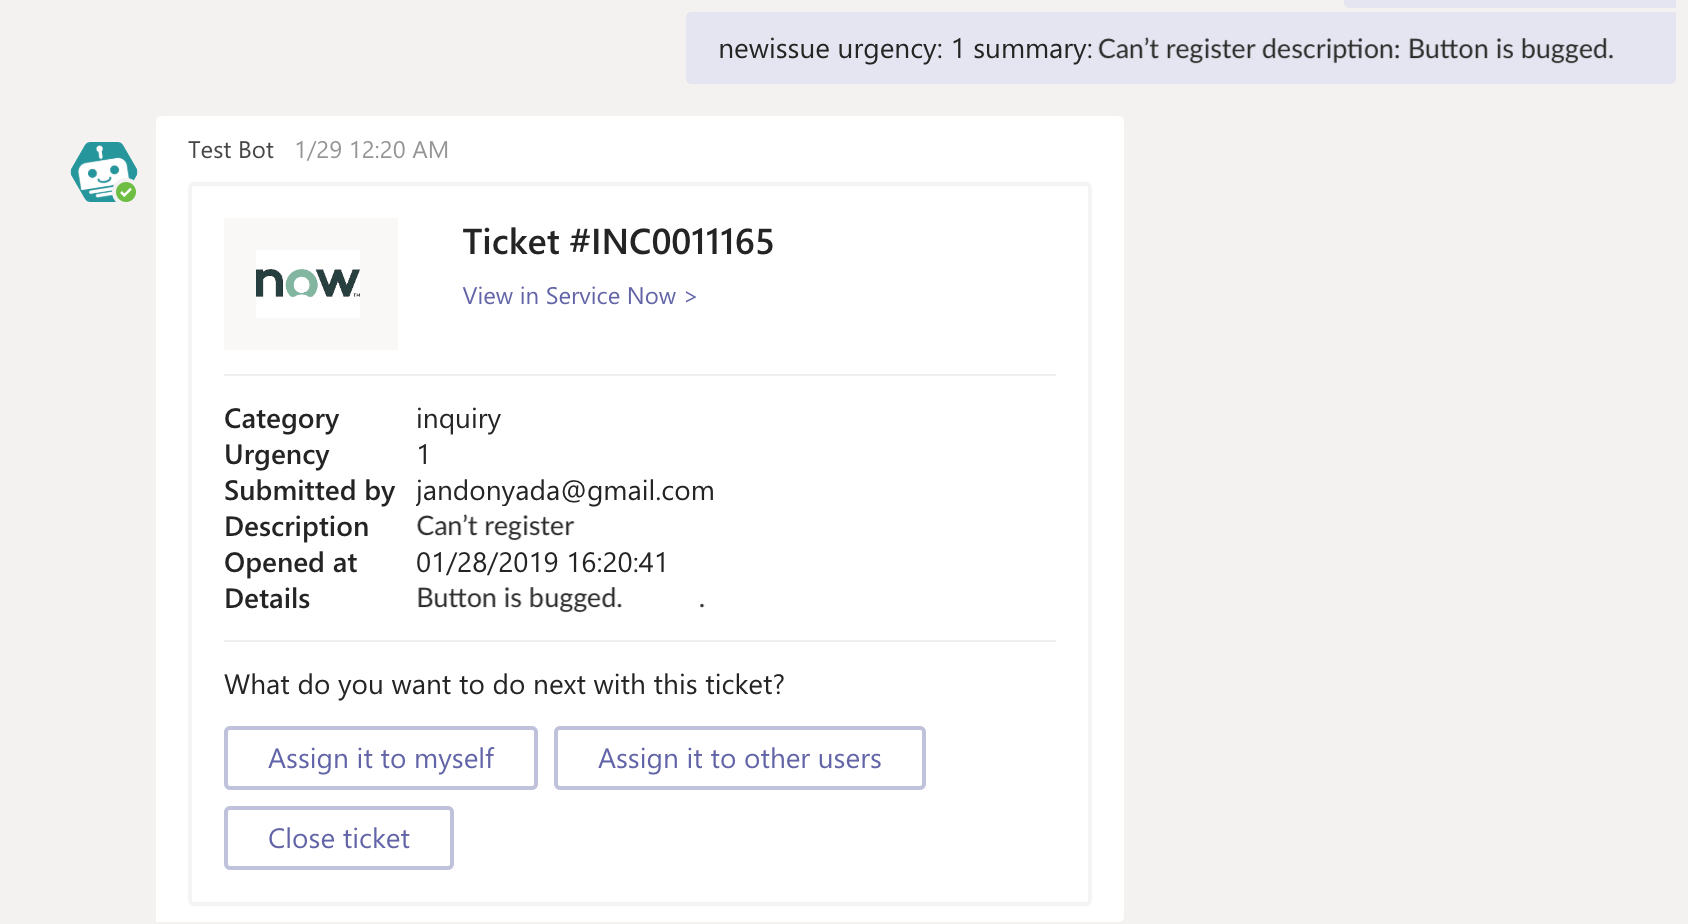
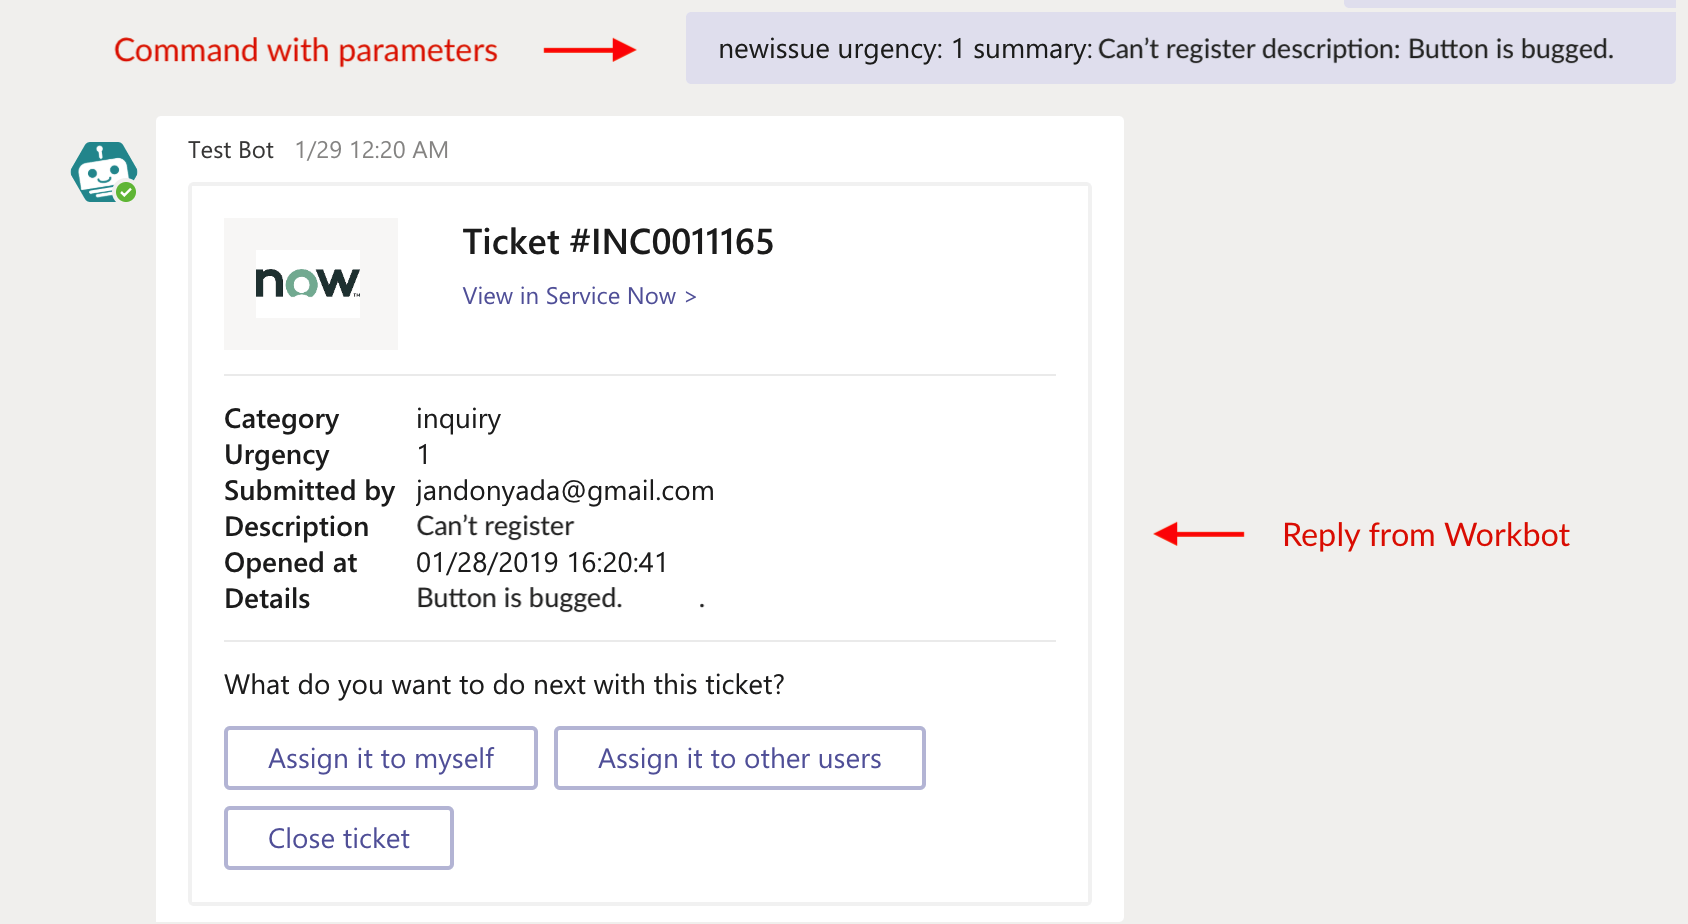
Update

Changed region(s): [[0.0616, 0.0303, 0.3697, 0.0909], [0.7701, 0.5455, 0.9242, 0.6061], [0.6777, 0.5455, 0.7393, 0.6061]]

diff --git a/workbot-for-teams/workbot-triggers.md b/workbot-for-teams/workbot-triggers.md
@@ -1,10 +1,25 @@
 ---
-title: Workbot triggers for Slack
+title: Workbot for Teams triggers
 date: 2017-03-30 05:00:00 Z
 ---
 
-# Workbot triggers for Slack
-Workbot for Slack allows you to send commands to Workbot on Slack. Workbot will handle these commands and interact with your connected apps to do things, such as display details of a customer account, close opportunities, display a list of invoices or tickets, or create/update existing tickets.
+# Workbot for Teams triggers
+## Workbot command trigger
+Workbot commands allow you to perform actions in your apps (e.g. creating new ServiceNow tickets, listing Salesforce opportunities) from within Teams.
+
+![Command example](/assets/images/workbot-for-teams/workbot-command-example.png)
+*Sending a 'newissue' command with additional parameters in Teams, then receiving a reply*
+
+In a recipe, a Workbot command is a trigger you can use to start your workflow.
+![Command recipe](/assets/images/workbot-for-teams/command-recipes.png)
+*A typical Workbot command recipe*
+
+When the command is sent to Workbot in Teams, it will trigger the recipe and execute its actions.
+
+
+### Configuring the command
+![New command](/assets/images/workbot-for-teams/new-command.png)
+*Example 'newissue' command*
 
 Each Workbot command is processed using a Workato recipe. The recipe trigger picks up the Workbot command as a trigger event, and the recipe determines the actions to carry out. With Workbot, you can create custom workflows that execute via your Slack commands, and optionally retrieve relevant data for you back to Slack.
 

diff --git a/workbot-for-teams/using-workbot-for-teams.md b/workbot-for-teams/using-workbot-for-teams.md
@@ -4,13 +4,18 @@ date: 2018-03-20 10:23:00 Z
 ---
 
 # Using Workbot for Teams
-## Carrying out Workbot commands
+## Workbot commands
 You can perform actions in your apps (e.g. creating new ServiceNow tickets, listing Salesforce opportunities) by sending Workbot commands from within Teams.
 
 ![Command example](/assets/images/workbot-for-teams/workbot-command-example.png)
-*Sending a 'newissue' command with additional parameters in Teams, then receiving a response*
+*Sending a 'newissue' command with additional parameters in Teams, then receiving a reply*
 
-A Workbot command is a special trigger you can define to run a specific recipe. Commands must be unique, one word, and contain no spaces. Commands can also take in additional parameters, but more on that later.
+A Workbot command is a trigger that allows you to run a Workbot command recipe.
+
+![New command](/assets/images/workbot-for-teams/new-command.png)
+*Example 'newissue' command in a recipe*
+
+To learn more about Workbot commands, go to [Workbot commands](/workbot-for-teams/workbot-triggers.md).
 
 ![Command recipe](/assets/images/workbot-for-teams/command-recipes.png)
 *A typical Workbot command recipe*

diff --git a/workbot-for-teams/workbot.md b/workbot-for-teams/workbot.md
@@ -11,4 +11,4 @@ Your team can configure Workbot to post messages to Teams users and channels whe
 You can also retrieve, create and update data from your apps from within Teams, by sending commands to Workbot.
 
 ## Learn more
-- [Using Workbot for teams](/using-workbot-for-teams/)
+- [Using Workbot for teams](/workbot-for-teams/using-workbot-for-teams.md)
